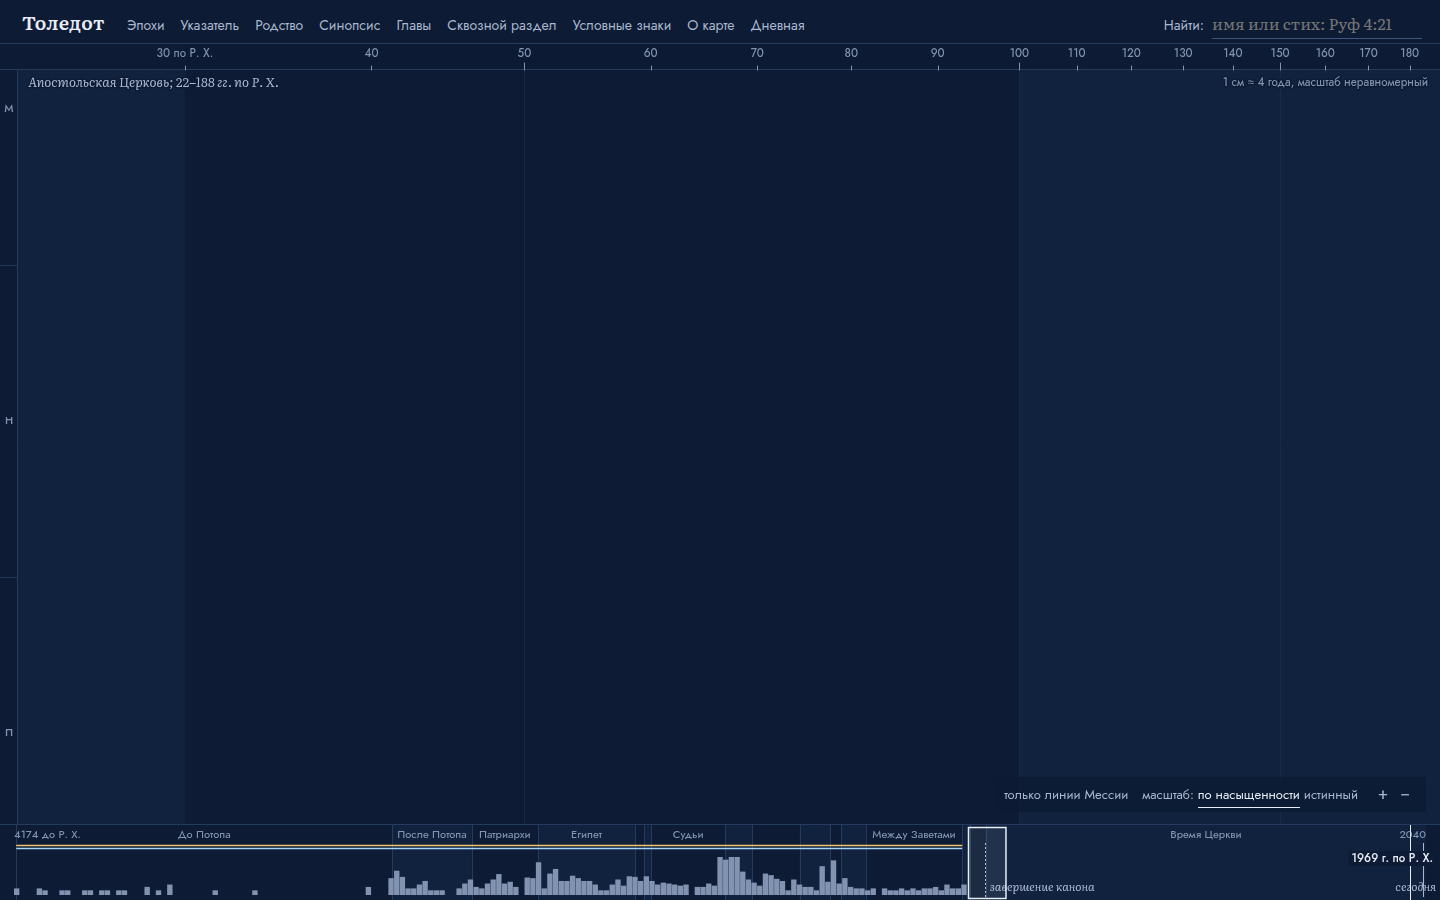
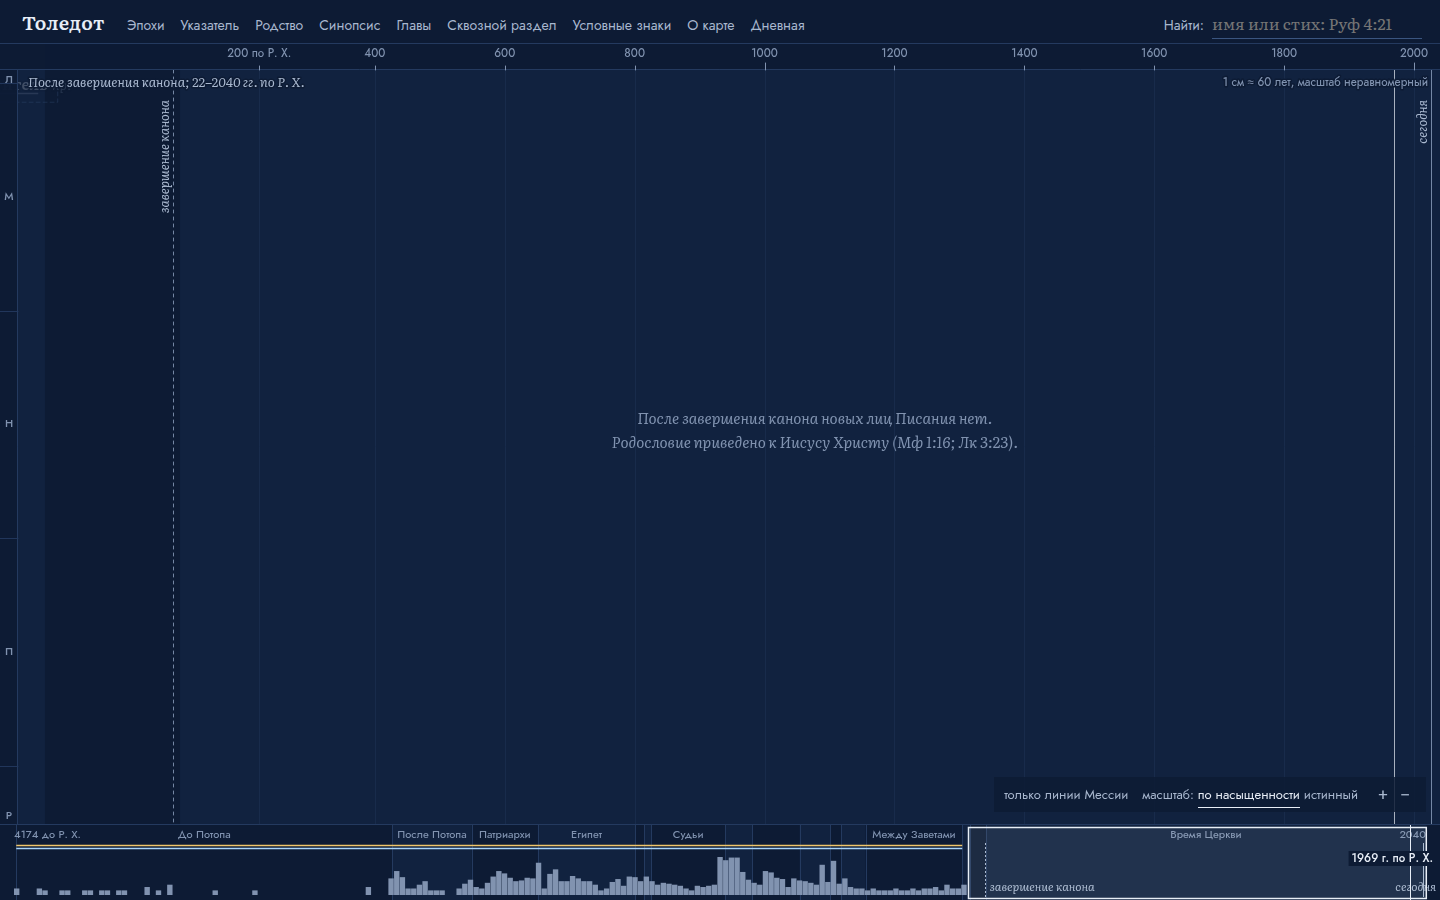
Sky reaches 2040: canon end and today marked, post-canon note, model-aware scale start
- the time scale starts before creation when a model (bracket numbers) dates Adam earlier
- choosing an epoch no longer clips its end at 110 AD, so the Church era opens to 2040
- sky: dashed line at the end of the canon, a line at the current year, and a short note
  that no persons of Scripture follow the canon

Claude-Session: https://claude.ai/code/session_01EUxWQ9pGZnxQRHBbeDnGCg

diff --git a/src/render/sky.ts b/src/render/sky.ts
@@ -5,7 +5,7 @@
  */
 import { Camera, KX_MIN } from './camera.ts';
 import { drawGlyph, starRadius, roleSigla } from './glyphs.ts';
-import { timeToX, xToTime, hydrateScale, type TimeScale, T_START, T_END } from '../engine/timescale.ts';
+import { timeToX, xToTime, hydrateScale, type TimeScale, T_END } from '../engine/timescale.ts';
 import { buildRibbons, type Strand } from '../engine/ribbons.ts';
 import { toHist, toAstro } from '../engine/years.ts';
 import type { ModelData, NodeRow } from '../data/atlas.ts';
@@ -161,7 +161,7 @@ export class Sky {
   }
 
   fitAll() {
-    const lo = this.xOf(T_START);
+    const lo = this.xOf(this.scale.knots[0]);
     const hi = this.xOf(100);
     this.cam.fit(lo, hi, this.model.laneMin, this.model.laneMax, 36);
   }
@@ -344,6 +344,44 @@ export class Sky {
           ctx.fillRect(a, 0, b - a, H);
         }
       });
+    }
+
+    // завершение канона (Откр — ок. 95 г.) и «сегодня»: шкала неба тянется до 2040 г.
+    {
+      const mark = (t: number, label: string, dashed: boolean) => {
+        const x = Math.round(cam.sx(this.xOf(t))) + 0.5;
+        if (x < LETTER_W || x > W) return;
+        ctx.strokeStyle = alpha(pal.ink3, 0.9);
+        ctx.lineWidth = 1;
+        ctx.setLineDash(dashed ? [3, 4] : []);
+        ctx.beginPath();
+        ctx.moveTo(x, RULER_H);
+        ctx.lineTo(x, H);
+        ctx.stroke();
+        ctx.setLineDash([]);
+        ctx.font = `italic 400 12.5px ${FONT_SERIF}`;
+        ctx.fillStyle = pal.ink2;
+        const tw = ctx.measureText(label).width;
+        // подпись вдоль черты, сверху — внизу справа лежат кнопки масштаба
+        ctx.save();
+        ctx.translate(x - 5, RULER_H + 30 + tw);
+        ctx.rotate(-Math.PI / 2);
+        ctx.fillText(label, 0, 0);
+        ctx.restore();
+      };
+      mark(95, 'завершение канона', true);
+      mark(new Date().getFullYear(), 'сегодня', false);
+      // время после канона пусто по существу: сказать об этом, а не оставлять тёмное поле
+      const xc = Math.max(LETTER_W + 40, cam.sx(this.xOf(110)));
+      if (W - xc > 380) {
+        const cx = (xc + W) / 2;
+        ctx.font = `italic 400 15px ${FONT_SERIF}`;
+        ctx.fillStyle = pal.ink3;
+        const l1 = 'После завершения канона новых лиц Писания нет.';
+        const l2 = 'Родословие приведено к Иисусу Христу (Мф 1:16; Лк 3:23).';
+        ctx.fillText(l1, cx - ctx.measureText(l1).width / 2, H / 2 - 10);
+        ctx.fillText(l2, cx - ctx.measureText(l2).width / 2, H / 2 + 14);
+      }
     }
 
     // сетка лет
@@ -673,7 +711,7 @@ export class Sky {
     };
     ctx.font = `italic 400 13px ${FONT_SERIF}`;
     ctx.fillStyle = pal.ink2;
-    const head = `${ep ? ep.name + '; ' : ''}${span(Math.max(T_START, tL), Math.min(T_END, tR))}`;
+    const head = `${ep ? ep.name + '; ' : ''}${span(Math.max(this.scale.knots[0], tL), Math.min(T_END, tR))}`;
     ctx.strokeStyle = pal.halo;
     ctx.lineWidth = 3;
     ctx.strokeText(head, LETTER_W + 10, RULER_H + 17);
@@ -820,7 +858,7 @@ export class Sky {
     for (const s of steps) if (s * pxPerYear >= 78) { step = s; break; }
     const out: { t: number; major: boolean }[] = [];
     // шаги по историческим годам, чтобы метки были круглыми («1000 до Р. Х.»)
-    const hStart = Math.floor(toHist(Math.max(T_START, tL)) / step) * step;
+    const hStart = Math.floor(toHist(Math.max(this.scale.knots[0], tL)) / step) * step;
     const hEnd = toHist(Math.min(T_END, tR));
     for (let h = hStart; h <= hEnd + step; h += step) {
       if (h === 0) continue;

diff --git a/src/engine/timescale.ts b/src/engine/timescale.ts
@@ -56,8 +56,11 @@ export function fritschCarlson(x: number[], y: number[]): number[] {
  * @param spans — промежутки жизни [начало, конец] для оценки «насыщенности» (сколько следов живёт одновременно)
  */
 export function buildTimeScale(births: number[], spans: [number, number][]): TimeScale {
+  // начало шкалы — сотворение по масоретским числам или раньше, если модель (числа в скобках) удревняет Адама
+  const minBirth = births.reduce((a, b) => Math.min(a, b), Infinity);
+  const start = minBirth - 20 < T_START ? Math.floor((minBirth - 20) / BIN) * BIN : T_START;
   const knots: number[] = [];
-  for (let t = T_START; t < T_CANON_END; t += BIN) knots.push(t);
+  for (let t = start; t < T_CANON_END; t += BIN) knots.push(t);
   knots.push(T_CANON_END);
   const post = [400, 800, 1200, 1600, 2000, T_END]; // после канона — редкие узлы
   for (const t of post) knots.push(t);
@@ -67,7 +70,7 @@ export function buildTimeScale(births: number[], spans: [number, number][]): Tim
   const alivePer = new Float64Array(nb);
   const binOf = (t: number) => {
     if (t >= T_CANON_END) return nb - 1;
-    return Math.max(0, Math.min(nb - 1, Math.floor((t - T_START) / BIN)));
+    return Math.max(0, Math.min(nb - 1, Math.floor((t - start) / BIN)));
   };
   for (const b of births) birthsPer[binOf(b)] += 1;
   for (const [a, e] of spans) {
@@ -150,7 +153,7 @@ export function timeToX(ts: TimeScale, t: number, lambda: number): number {
 
 /** Обратное отображение (бисекция). */
 export function xToTime(ts: TimeScale, x: number, lambda: number): number {
-  let lo = T_START - 200;
+  let lo = ts.knots[0] - 200;
   let hi = T_END + 200;
   for (let i = 0; i < 50; i++) {
     const mid = (lo + hi) / 2;

diff --git a/src/ui/Panels.tsx b/src/ui/Panels.tsx
@@ -72,7 +72,7 @@ function EpochsPanel() {
       {model.value.epochs.map((e) => (
         <div key={e.id}>
           <h3>
-            <button class="person" onClick={() => flyToYears(toAstro(e.start), Math.min(toAstro(e.end), 110))}>
+            <button class="person" onClick={() => flyToYears(toAstro(e.start), toAstro(e.end))}>
               {e.name}
             </button>
           </h3>

diff --git a/src/ui/TimeStrip.tsx b/src/ui/TimeStrip.tsx
@@ -239,7 +239,7 @@ export function TimeStrip() {
         if (ep) {
           const span = toAstro(ep.end) - toAstro(ep.start);
           const pad = Math.max(10, span * 0.04);
-          setView(toAstro(ep.start) - pad, Math.min(toAstro(ep.end), 110) + pad);
+          setView(toAstro(ep.start) - pad, toAstro(ep.end) + pad);
         }
       }
       drag = null;
